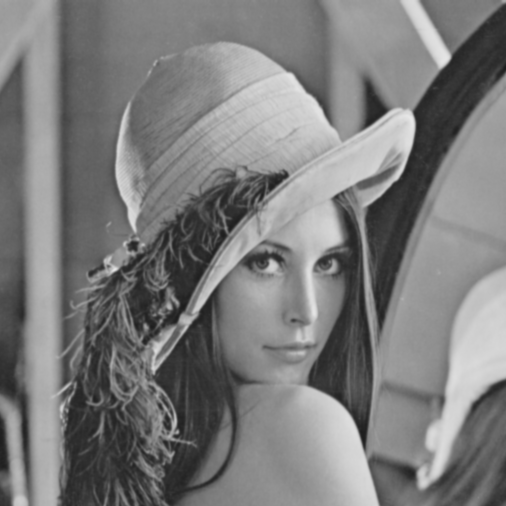
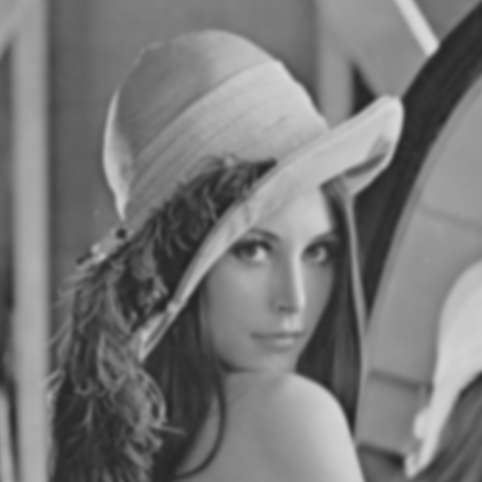
That last commit message about silly mistakes pales in comparision to this one

diff --git a/main.py b/main.py
@@ -1,6 +1,6 @@
 from PIL import Image
+import scipy.stats as st
 import numpy as np
-
 
 def load_image(file_name):
     """Load an image into a numpy array."""
@@ -43,6 +43,26 @@ def convolve(data, convf):
 
     return out
 
+def gkern(kernlen=31, nsig=10, thresh=0.001):
+    """Returns a 2D Gaussian kernel array."""
+
+    interval = (2*nsig+1.)/(kernlen)
+    x = np.linspace(-nsig-interval/2., nsig+interval/2., kernlen+1)
+    kern1d = np.diff(st.norm.cdf(x))
+    kernel_raw = np.sqrt(np.outer(kern1d, kern1d))
+    kernel = kernel_raw/kernel_raw.sum()
+
+    #kernel = kernel / np.max( kernel.ravel() )
+
+    shape = kernel.shape
+    kernel = kernel.ravel()
+
+    inds = np.where( kernel < thresh )[0]
+    kernel[ inds ] = 0.0
+
+    kernel = kernel.reshape( shape )
+
+    return kernel
 
 img = load_image("res/lenna.png")
 
@@ -61,9 +81,11 @@ blur_filter = np.array(
      [0.00002292 , 0.00078633 , 0.00655965 , 0.01330373 , 0.00655965 , 0.00078633 , 0.00002292],
      [0.00000067 , 0.00002292 , 0.00019117 , 0.00038771 , 0.00019117 , 0.00002292 , 0.00000067]])
 
+gblur_filter = gkern()
+
 edge_filter = np.array([[-1, -1, -1], [-1,  8, -1], [-1, -1, -1]])
 
-blured = convolve(grey, blur_filter)
+blured = convolve(grey, gblur_filter)
 edges = convolve(grey, edge_filter)
 
 save_image(grey, "lenna.png")
